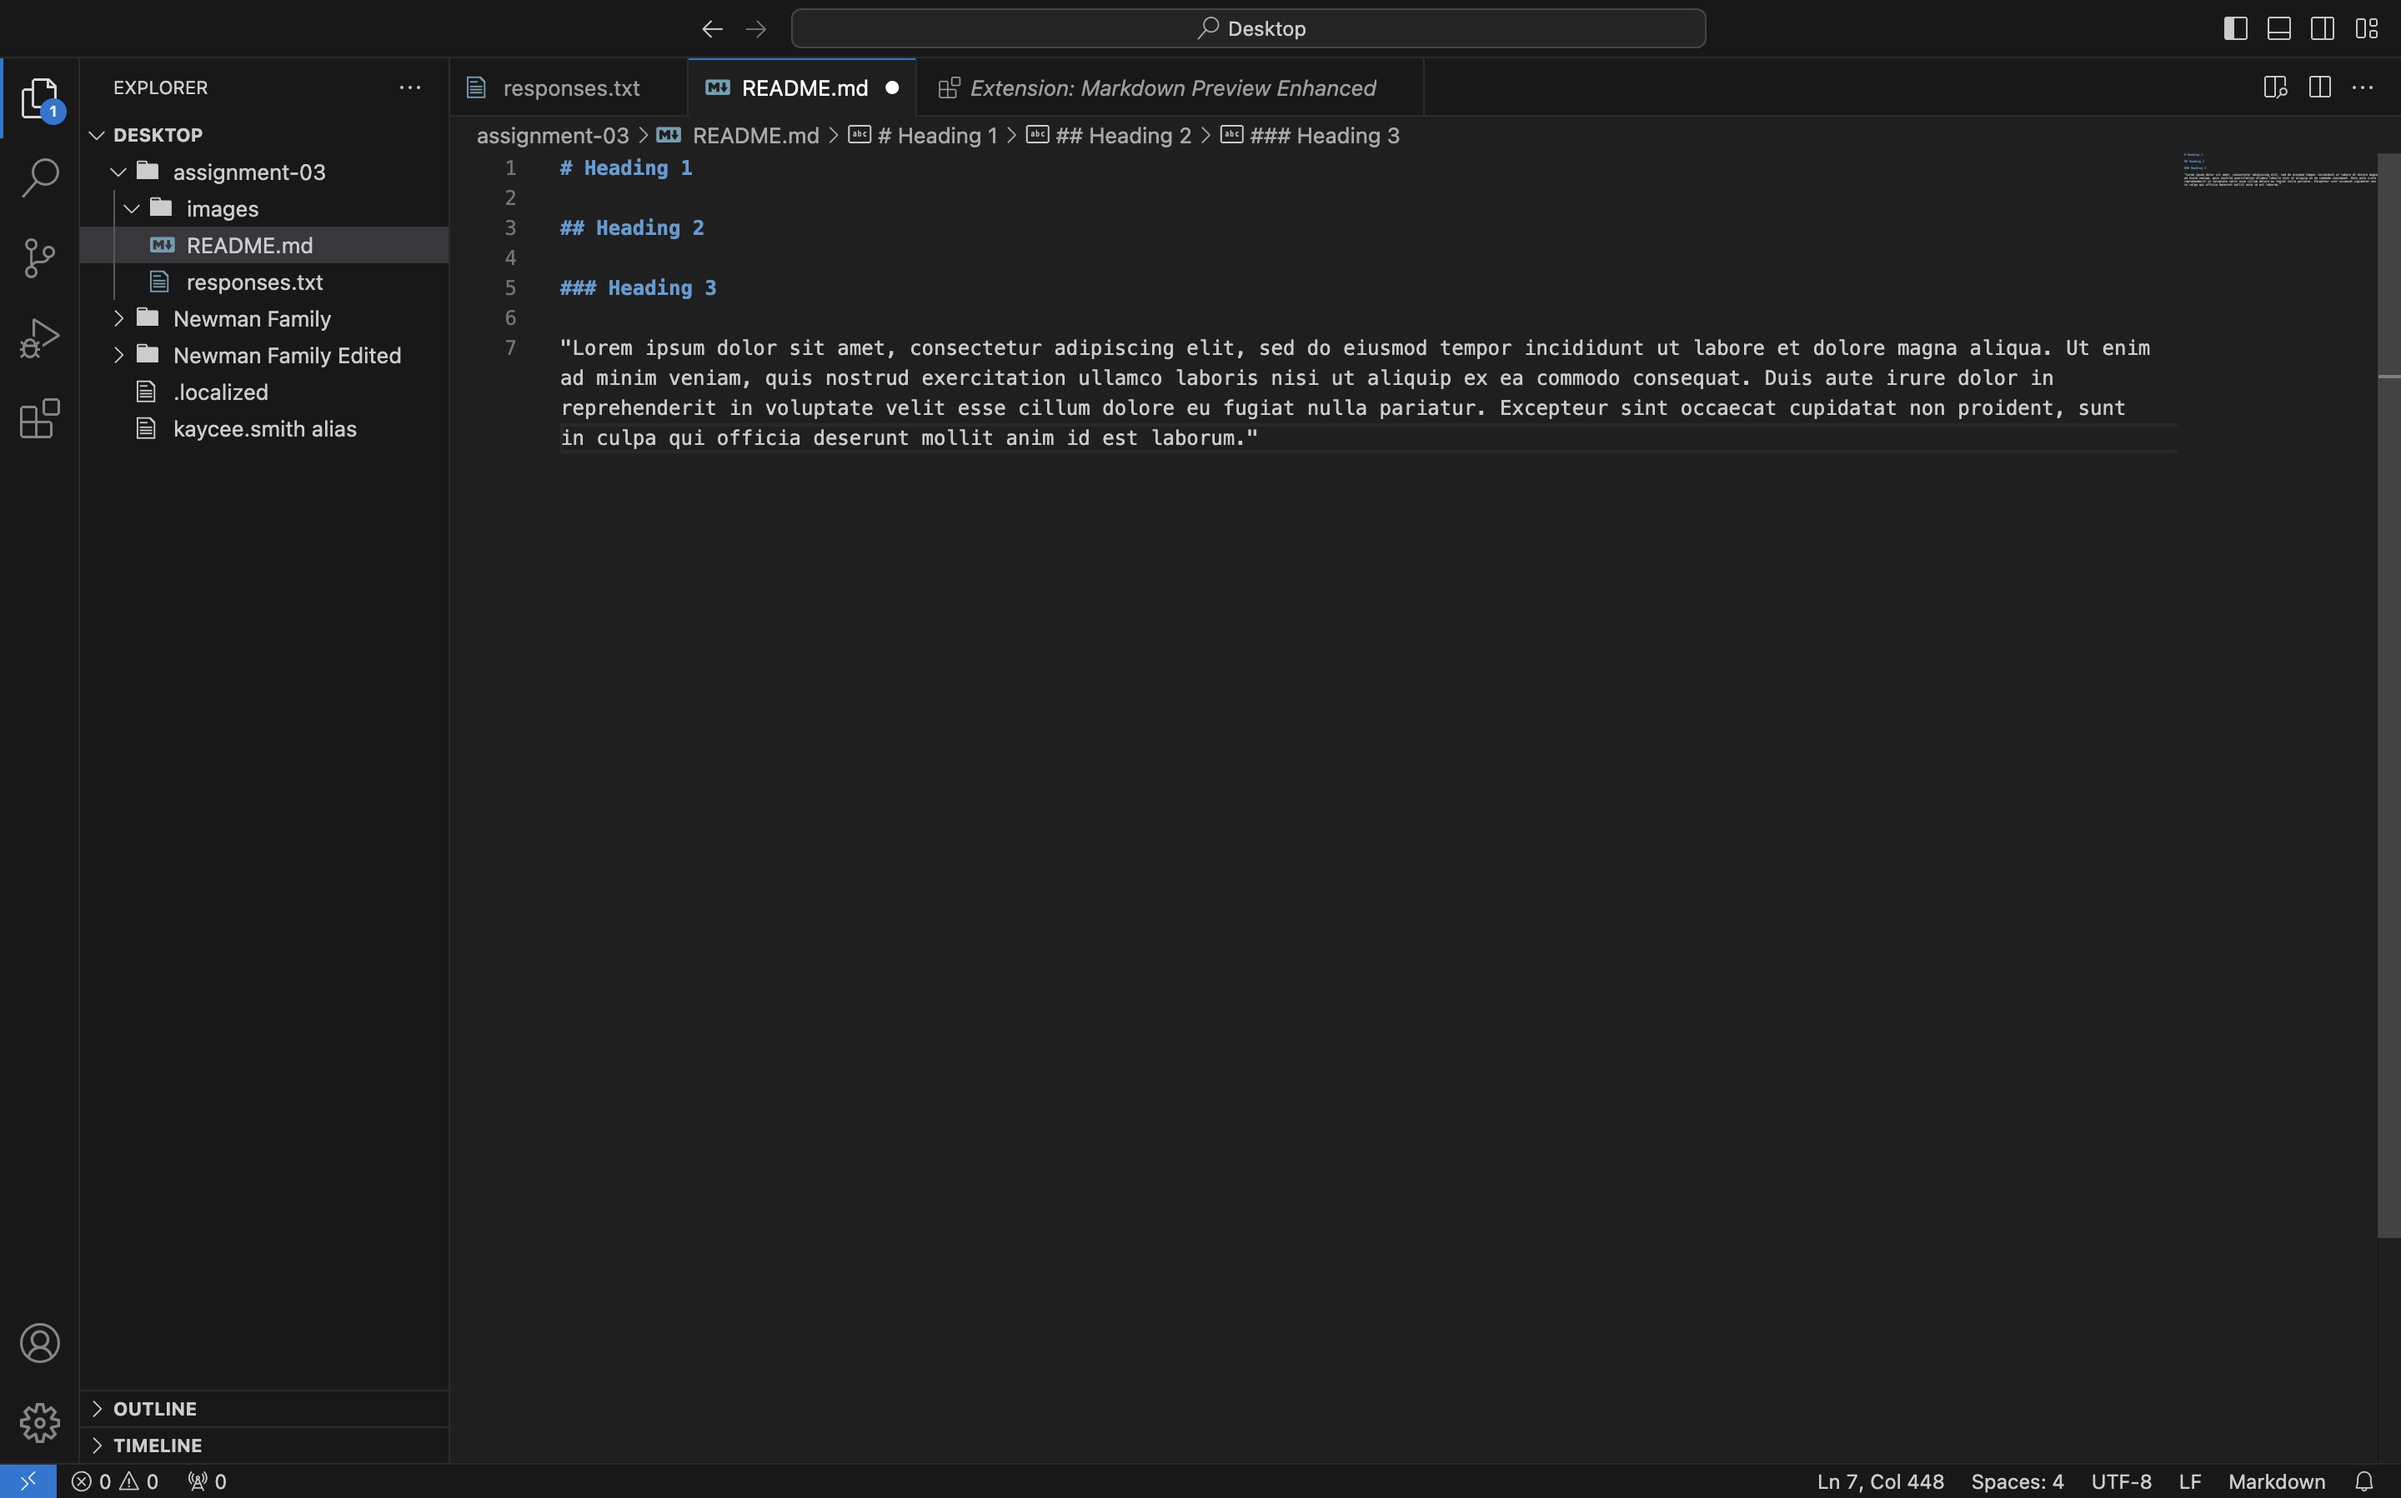
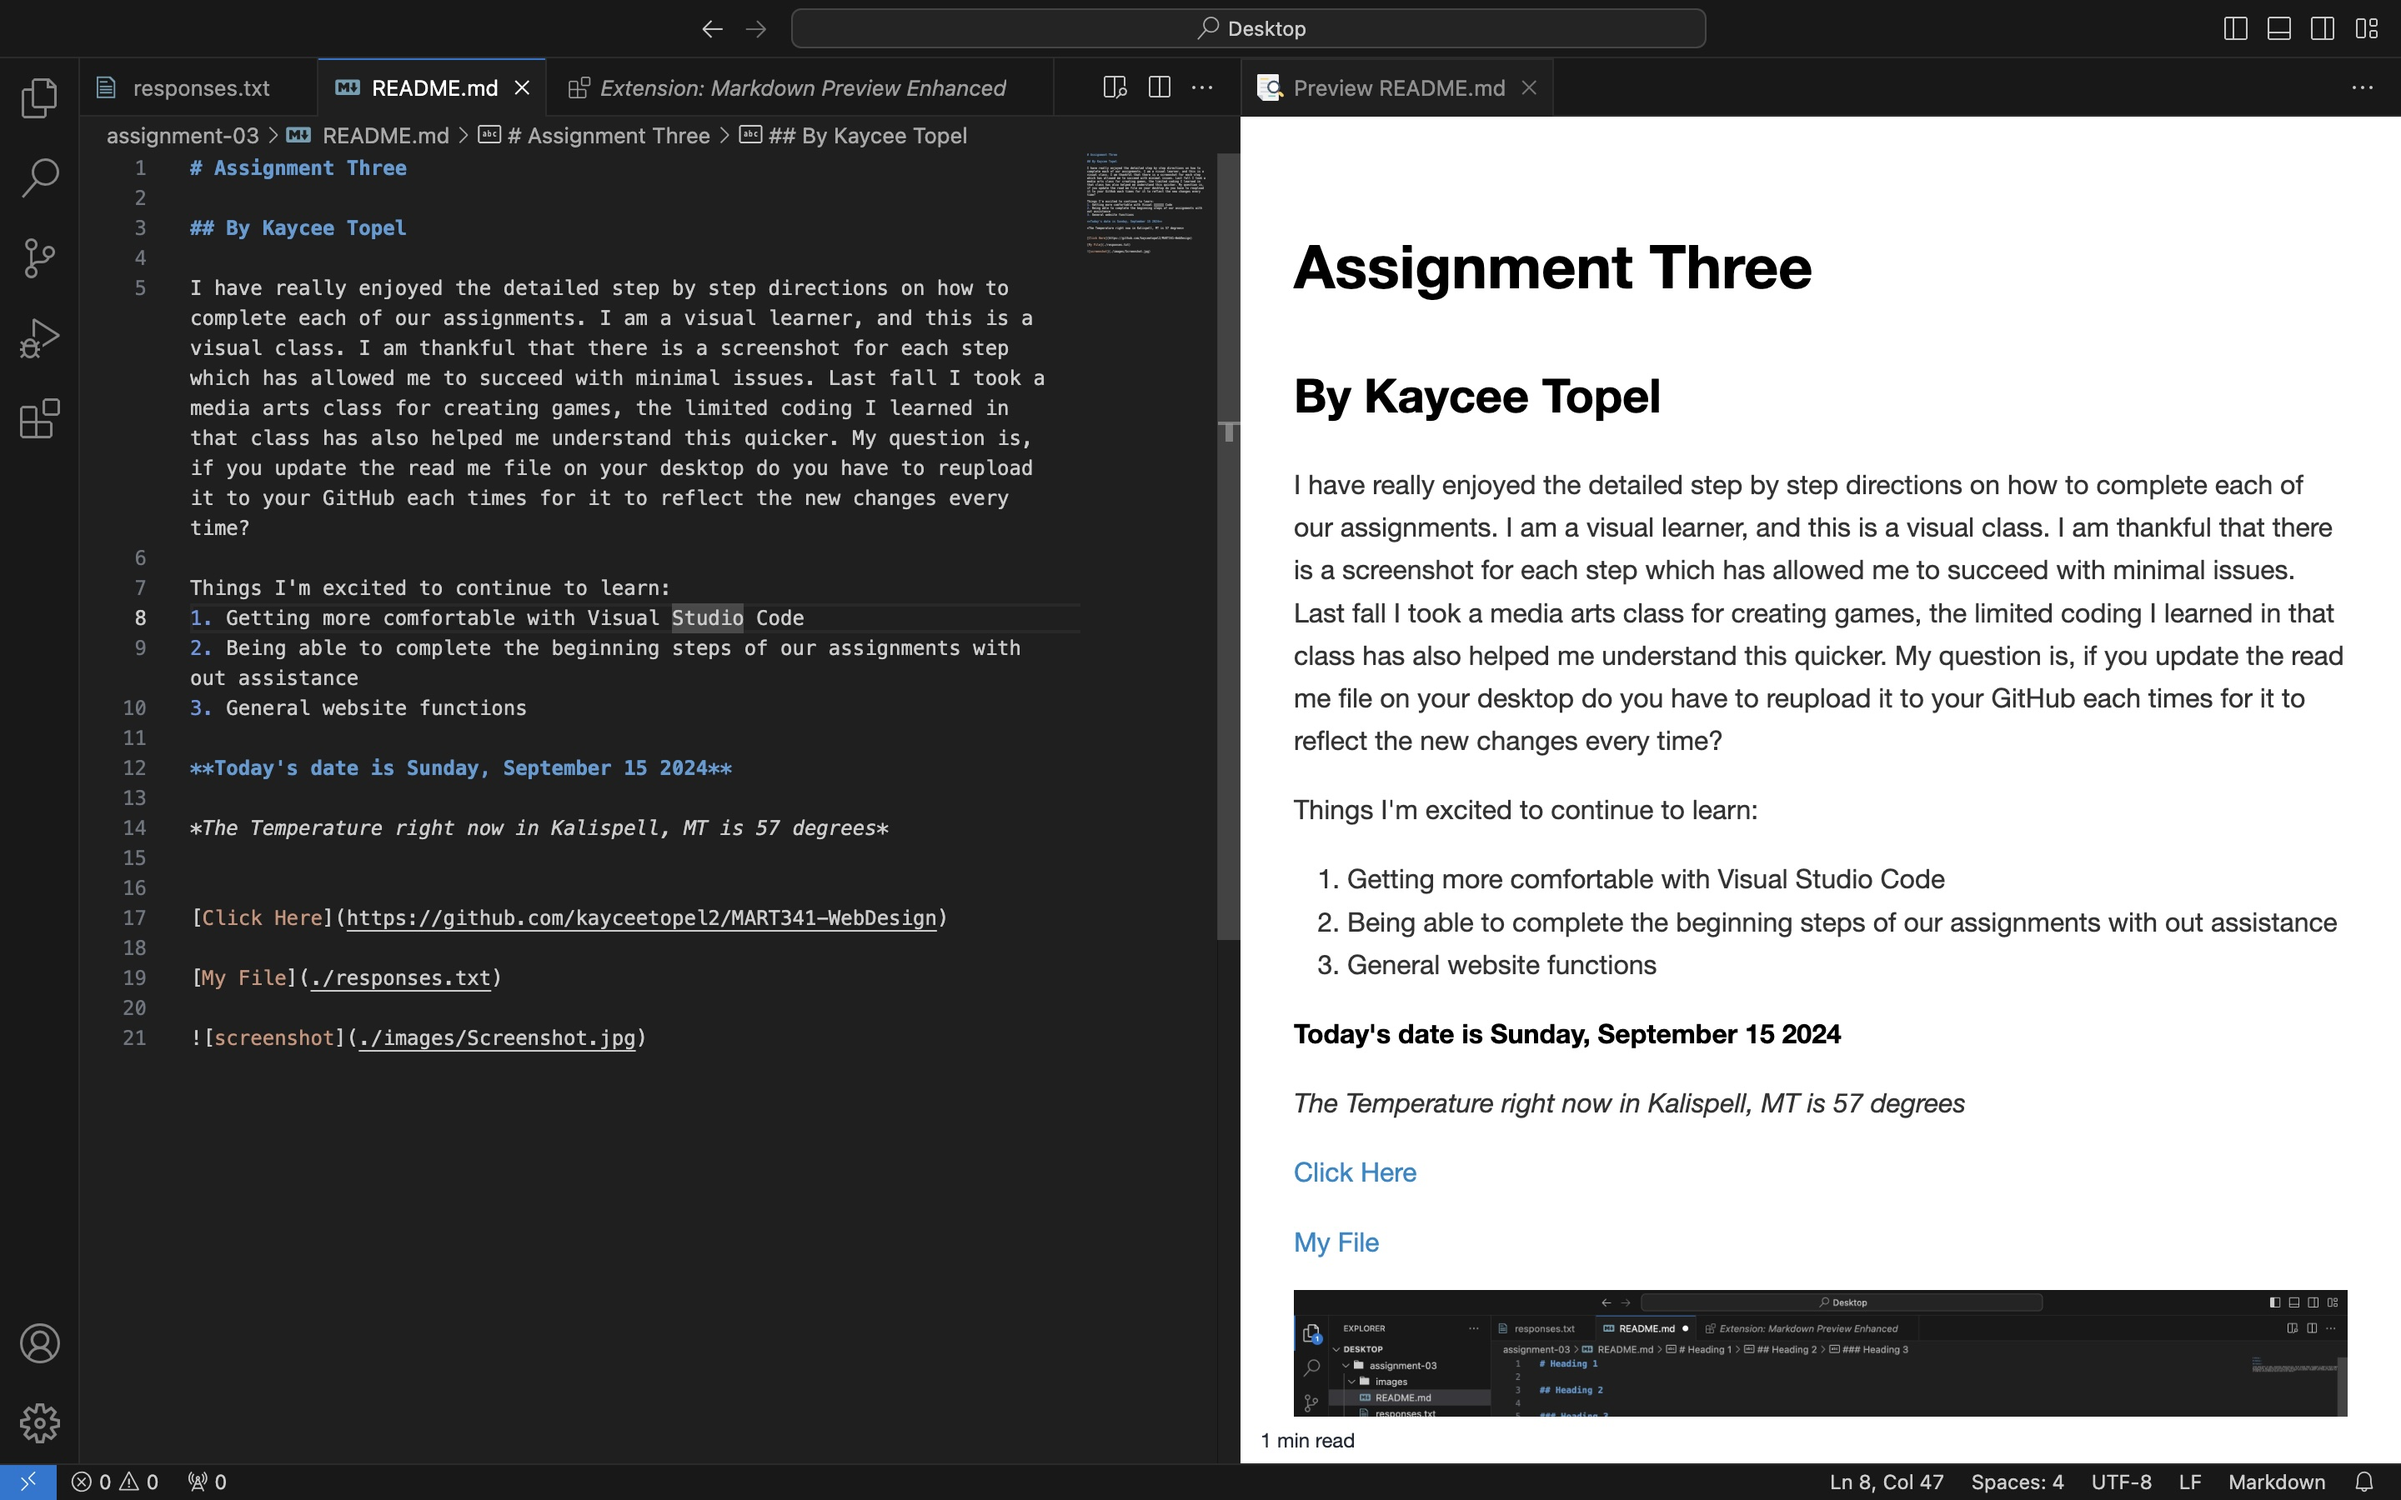
Add files via upload

diff --git a/assignment-03/README.md b/assignment-03/README.md
@@ -1,13 +1,22 @@
-# Heading 1
+# Assignment Three
 
-## Heading 2 
+## By Kaycee Topel 
 
-### Heading 3
+I have really enjoyed the detailed step by step directions on how to complete each of our assignments. I am a visual learner, and this is a visual class. I am thankful that there is a screenshot for each step which has allowed me to succeed with minimal issues. Last fall I took a media arts class for creating games, the limited coding I learned in that class has also helped me understand this quicker. My question is, if you update the read me file on your desktop do you have to reupload it to your GitHub each times for it to reflect the new changes every time? 
 
-"Lorem ipsum dolor sit amet, consectetur adipiscing elit, sed do eiusmod tempor incididunt ut labore et dolore magna aliqua. Ut enim ad minim veniam, quis nostrud exercitation ullamco laboris nisi ut aliquip ex ea commodo consequat. Duis aute irure dolor in reprehenderit in voluptate velit esse cillum dolore eu fugiat nulla pariatur. Excepteur sint occaecat cupidatat non proident, sunt in culpa qui officia deserunt mollit anim id est laborum."
+Things I'm excited to continue to learn:
+1. Getting more comfortable with Visual Studio Code 
+2. Being able to complete the beginning steps of our assignments with out assistance 
+3. General website functions 
 
-[Click Here](https://google.com)
+**Today's date is Sunday, September 15 2024**
+
+*The Temperature right now in Kalispell, MT is 57 degrees*
+
+
+[Click Here](https://github.com/kayceetopel2/MART341-WebDesign)
 
 [My File](./responses.txt)
 
 ![screenshot](./images/Screenshot.jpg)
+
